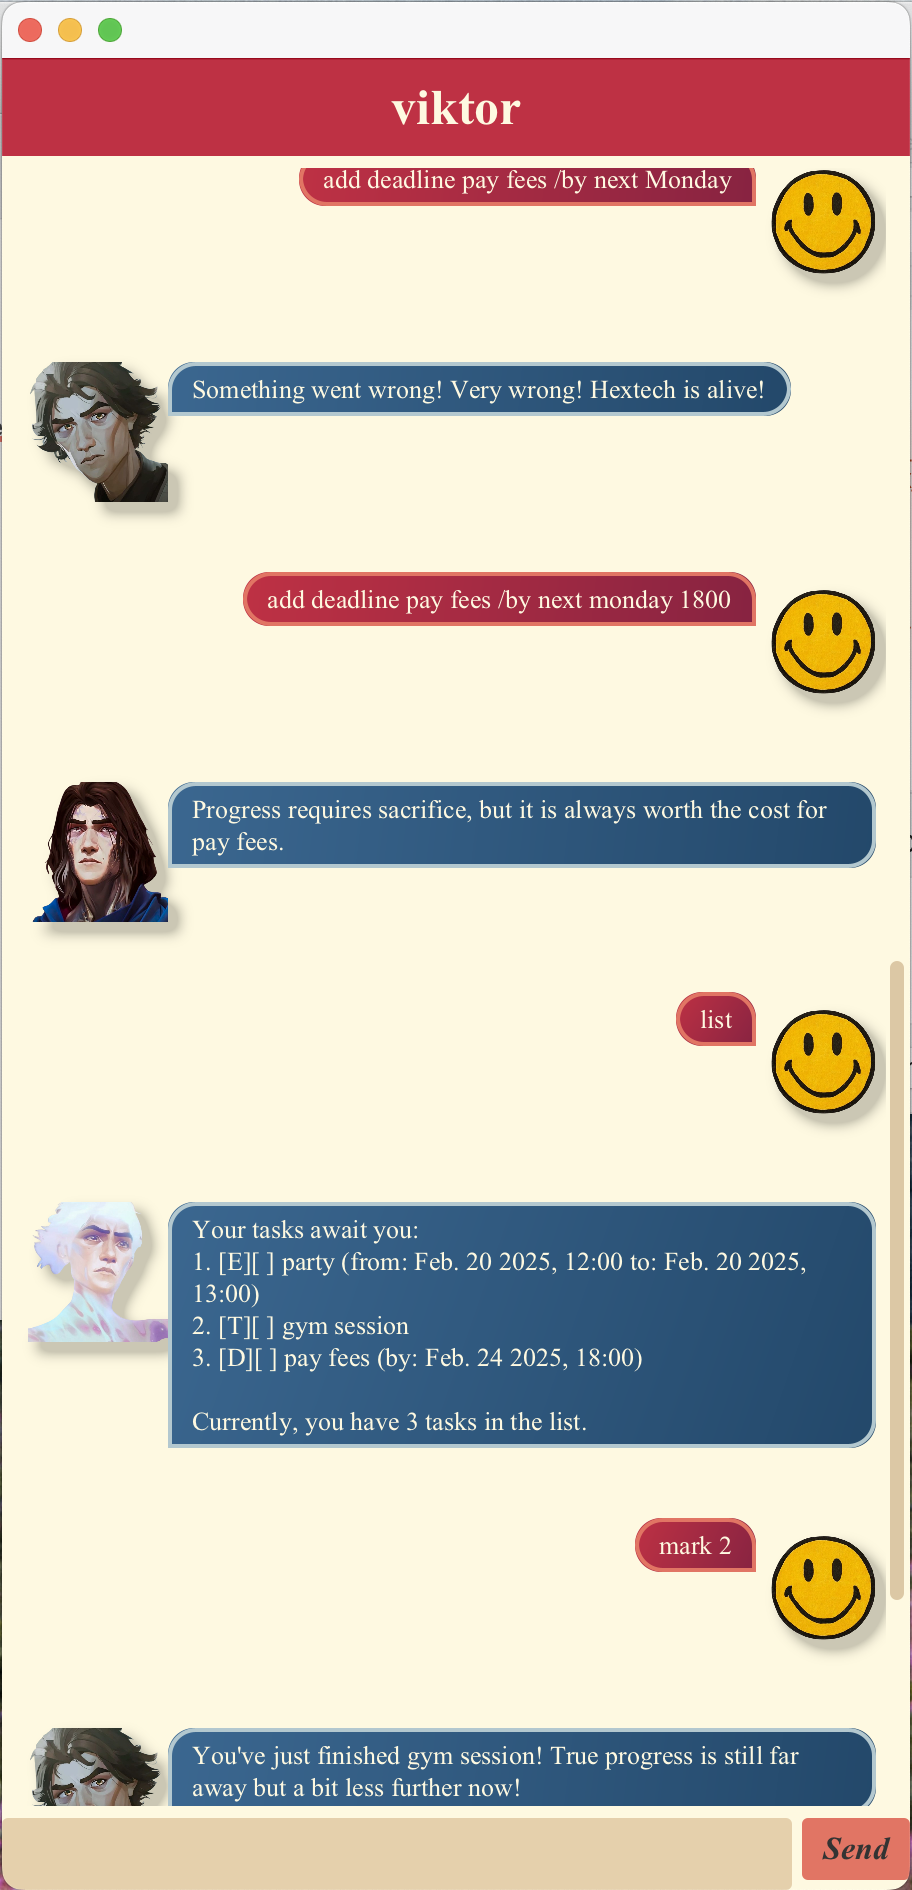
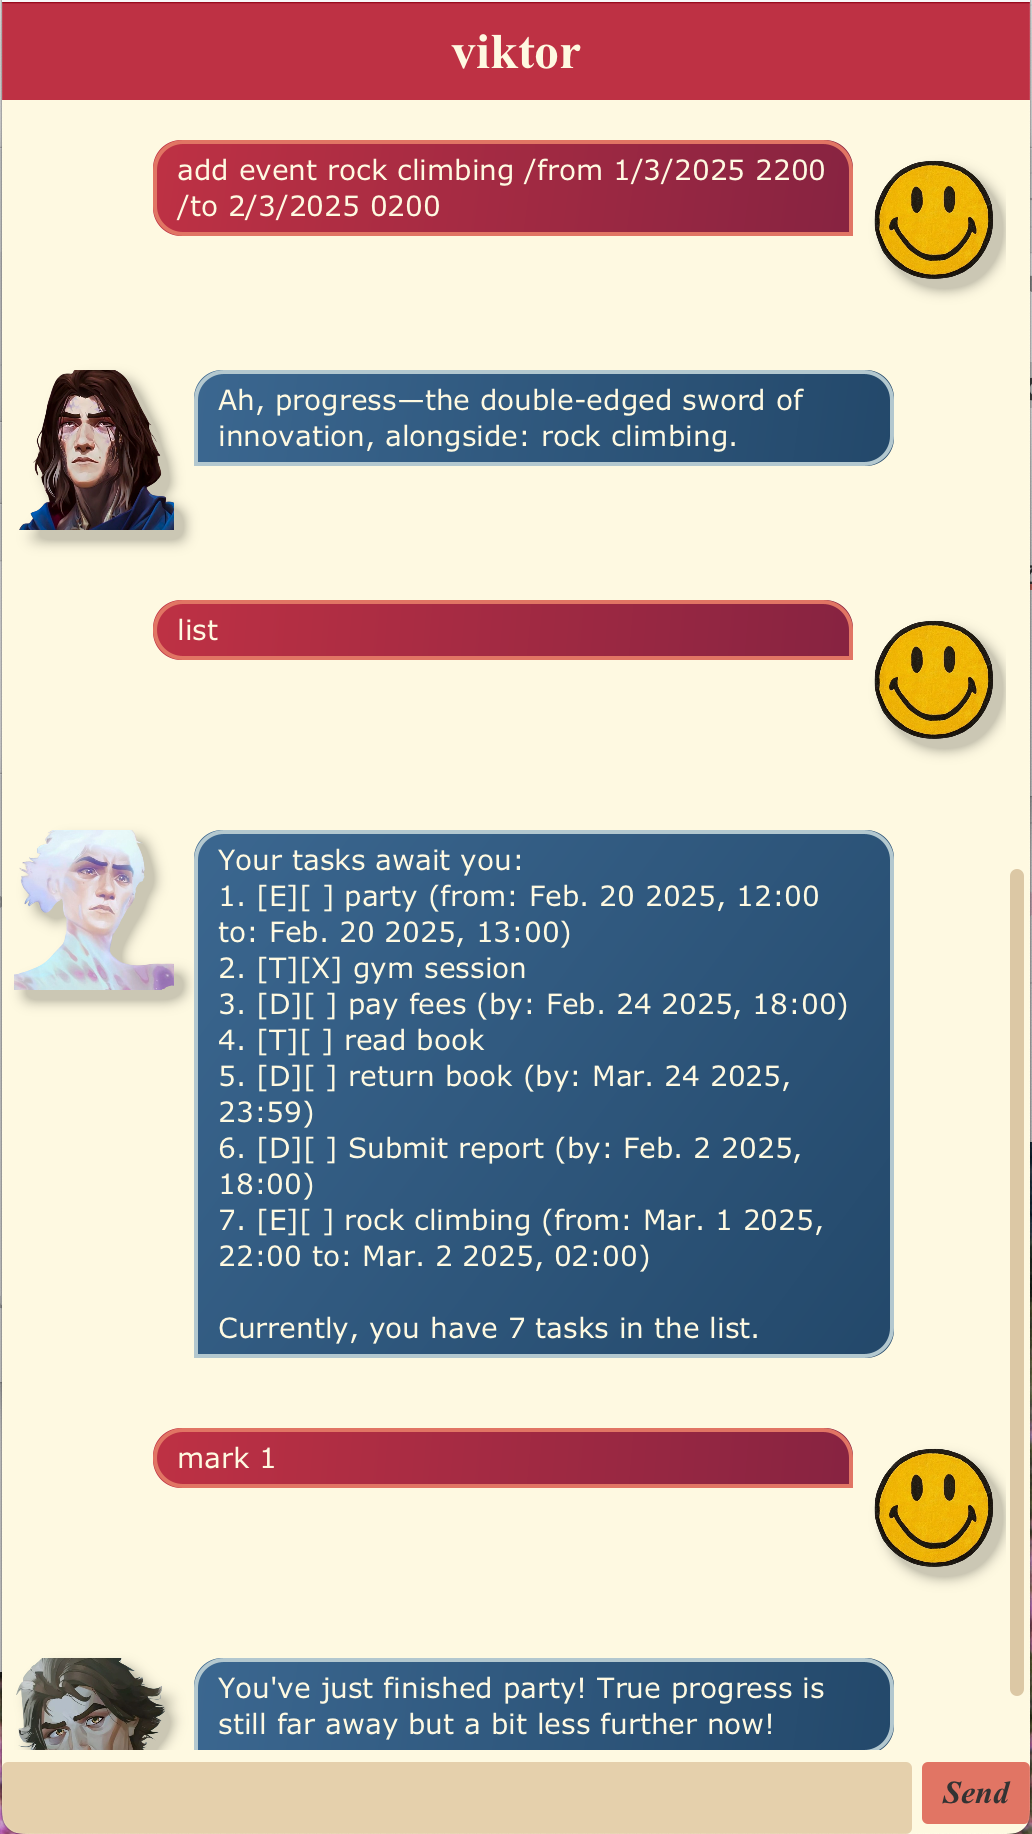
Improve UI by enabling better text wrapping

diff --git a/src/main/java/viktor/ui/DialogBox.java b/src/main/java/viktor/ui/DialogBox.java
@@ -1,7 +1,6 @@
 package viktor.ui;
 
 import java.io.IOException;
-import java.util.Collections;
 
 import javafx.collections.FXCollections;
 import javafx.collections.ObservableList;
@@ -36,6 +35,7 @@ public class DialogBox extends HBox {
 
         dialog.setText(text);
         dialog.setWrapText(true);
+        dialog.setPrefWidth(350.0); // Ensure the label has enough width for wrapping text
         displayPicture.setImage(img);
     }
 
@@ -44,7 +44,7 @@ public class DialogBox extends HBox {
      */
     private void flip() {
         ObservableList<Node> tmp = FXCollections.observableArrayList(this.getChildren());
-        Collections.reverse(tmp);
+        FXCollections.reverse(tmp);
         getChildren().setAll(tmp);
         setAlignment(Pos.TOP_LEFT);
         dialog.getStyleClass().add("reply-label");

diff --git a/src/main/java/viktor/parser/Parser.java b/src/main/java/viktor/parser/Parser.java
@@ -46,6 +46,7 @@ public class Parser {
         case "FIND":
             return handleFind(words, tasks);
         case "BYE":
+            System.exit(0);
             return new ByeCommand();
         case "RESET":
             return new ResetCommand(tasks);
